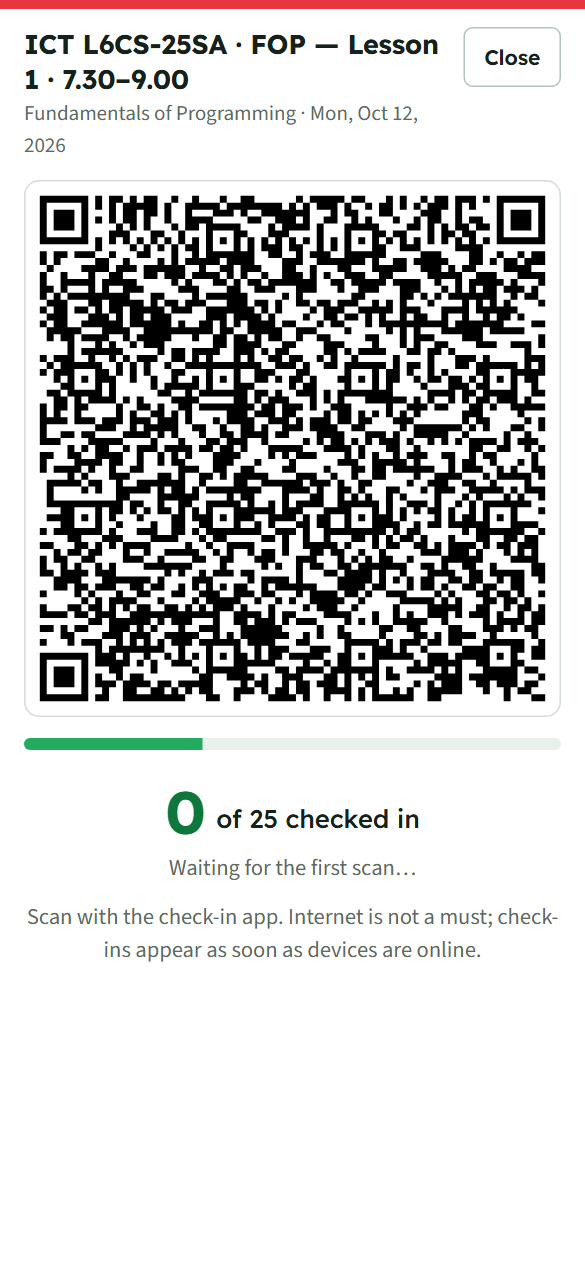
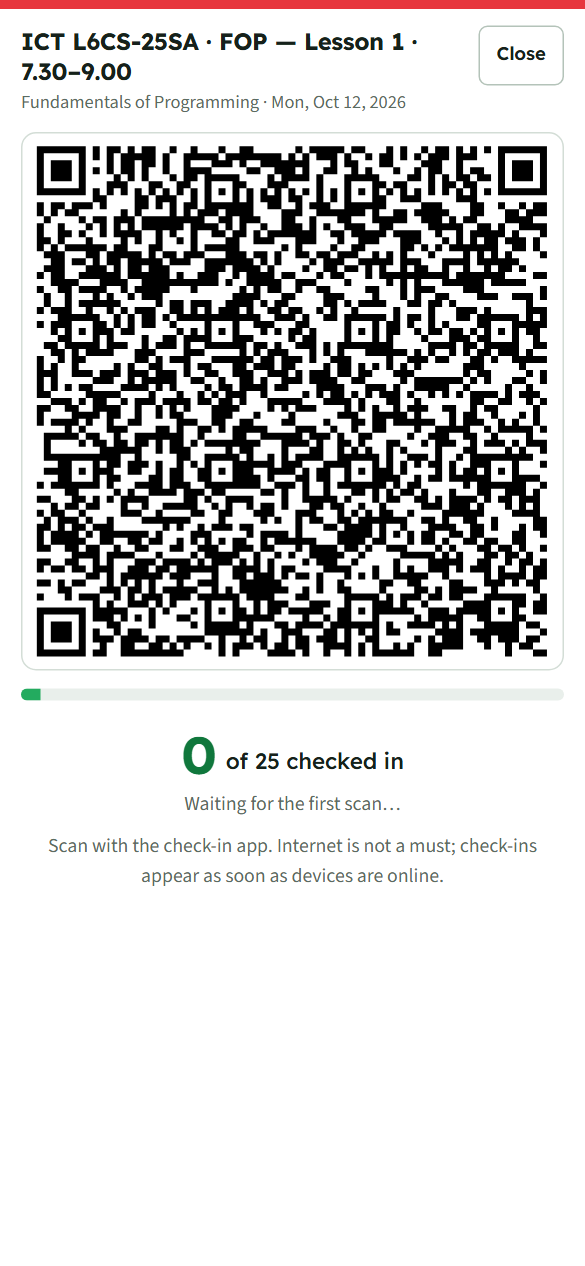
Smaller text on phones (14 px base); screenshots refreshed; 4.13.1

Changed region(s): [[0.0308, 0.0, 0.9846, 0.7701], [0.8, 0.6469, 0.9231, 0.6777], [0.9538, 0.0308, 0.9846, 0.0616]]

diff --git a/styles.css b/styles.css
@@ -946,3 +946,12 @@ body.student .status .btn svg.i { width: 15px; height: 15px; }
 .shutter { width: 68px; height: 68px; border-radius: 50%; border: 4px solid var(--surface); background: var(--p); box-shadow: 0 0 0 3px var(--p); cursor: pointer; }
 .shutter:active { transform: scale(.94); }
 .shutter:disabled { opacity: .5; }
+
+/* ---------- 4.13.1: smaller text on phones ----------
+ * Sizes are in rem, so a 14 px base (instead of 16 px) makes all text and spacing about 12% smaller.
+ * Typing boxes stay at 16 px: an iPhone zooms the page when you tap into smaller text. */
+@media (max-width: 600px) {
+  html { font-size: 14px; }
+  body { font-size: 14px; }
+  input, select, textarea { font-size: 16px; }
+}

diff --git a/sw.js b/sw.js
@@ -1,6 +1,6 @@
 /* Service worker: keeps the whole app available with no network.
  * Bump CACHE when you change any file so devices pick up the new version. */
-const CACHE = 'rvnp-attendance-v4.13.0';
+const CACHE = 'rvnp-attendance-v4.13.1';
 /* What this worker needs in order to answer a notification: the server address, this phone's ID and
  * the student's admission number. The student app writes it here when notifications are switched on,
  * because a service worker woken by a notification cannot read the app's own database. */

diff --git a/app.js b/app.js
@@ -7,7 +7,7 @@
  */
 'use strict';
 
-const APP_VERSION = '4.13.0';
+const APP_VERSION = '4.13.1';
 const db = new PouchDB('rvnp_attendance', { auto_compaction: true });
 
 const STATUSES = { P: 'Present', A: 'Absent', L: 'Late', E: 'Excused' };

diff --git a/README.md b/README.md
@@ -405,3 +405,4 @@ This is for the people building the app. [`design-notes.js`](design-notes.js) is
 
 - **The camera for evidence is inside the student app.** Opening the phone's own camera app let Android close the browser ("unable to complete previous operation due to low memory"), losing the page. Now **Take photo of a page** shows a live camera in the app; **Keep and take the next page** goes straight back to it, and **Retake** redoes a page.
 - **Screenshots in the guides** come from `docs/make-screenshots.py`, which rebuilds them from the current code with an invented demo department.
+- 4.13.1: smaller text on phones (a 14 px base instead of 16 px; typing boxes stay at 16 px so iPhones do not zoom).

diff --git a/docs/TECHNICAL.md b/docs/TECHNICAL.md
@@ -1,7 +1,7 @@
 # The Ark — Technical Documentation
 
 For whoever sets up, runs and maintains the RVNP ICT attendance system.
-Describes app **4.13.0**, server (Worker) **6.2.0**, database schema **8**, Drive bridge **1.3.0**.
+Describes app **4.13.1**, server (Worker) **6.2.0**, database schema **8**, Drive bridge **1.3.0**.
 For day-to-day use of the apps, see the [User Guide](USER-GUIDE.md).
 
 ---
